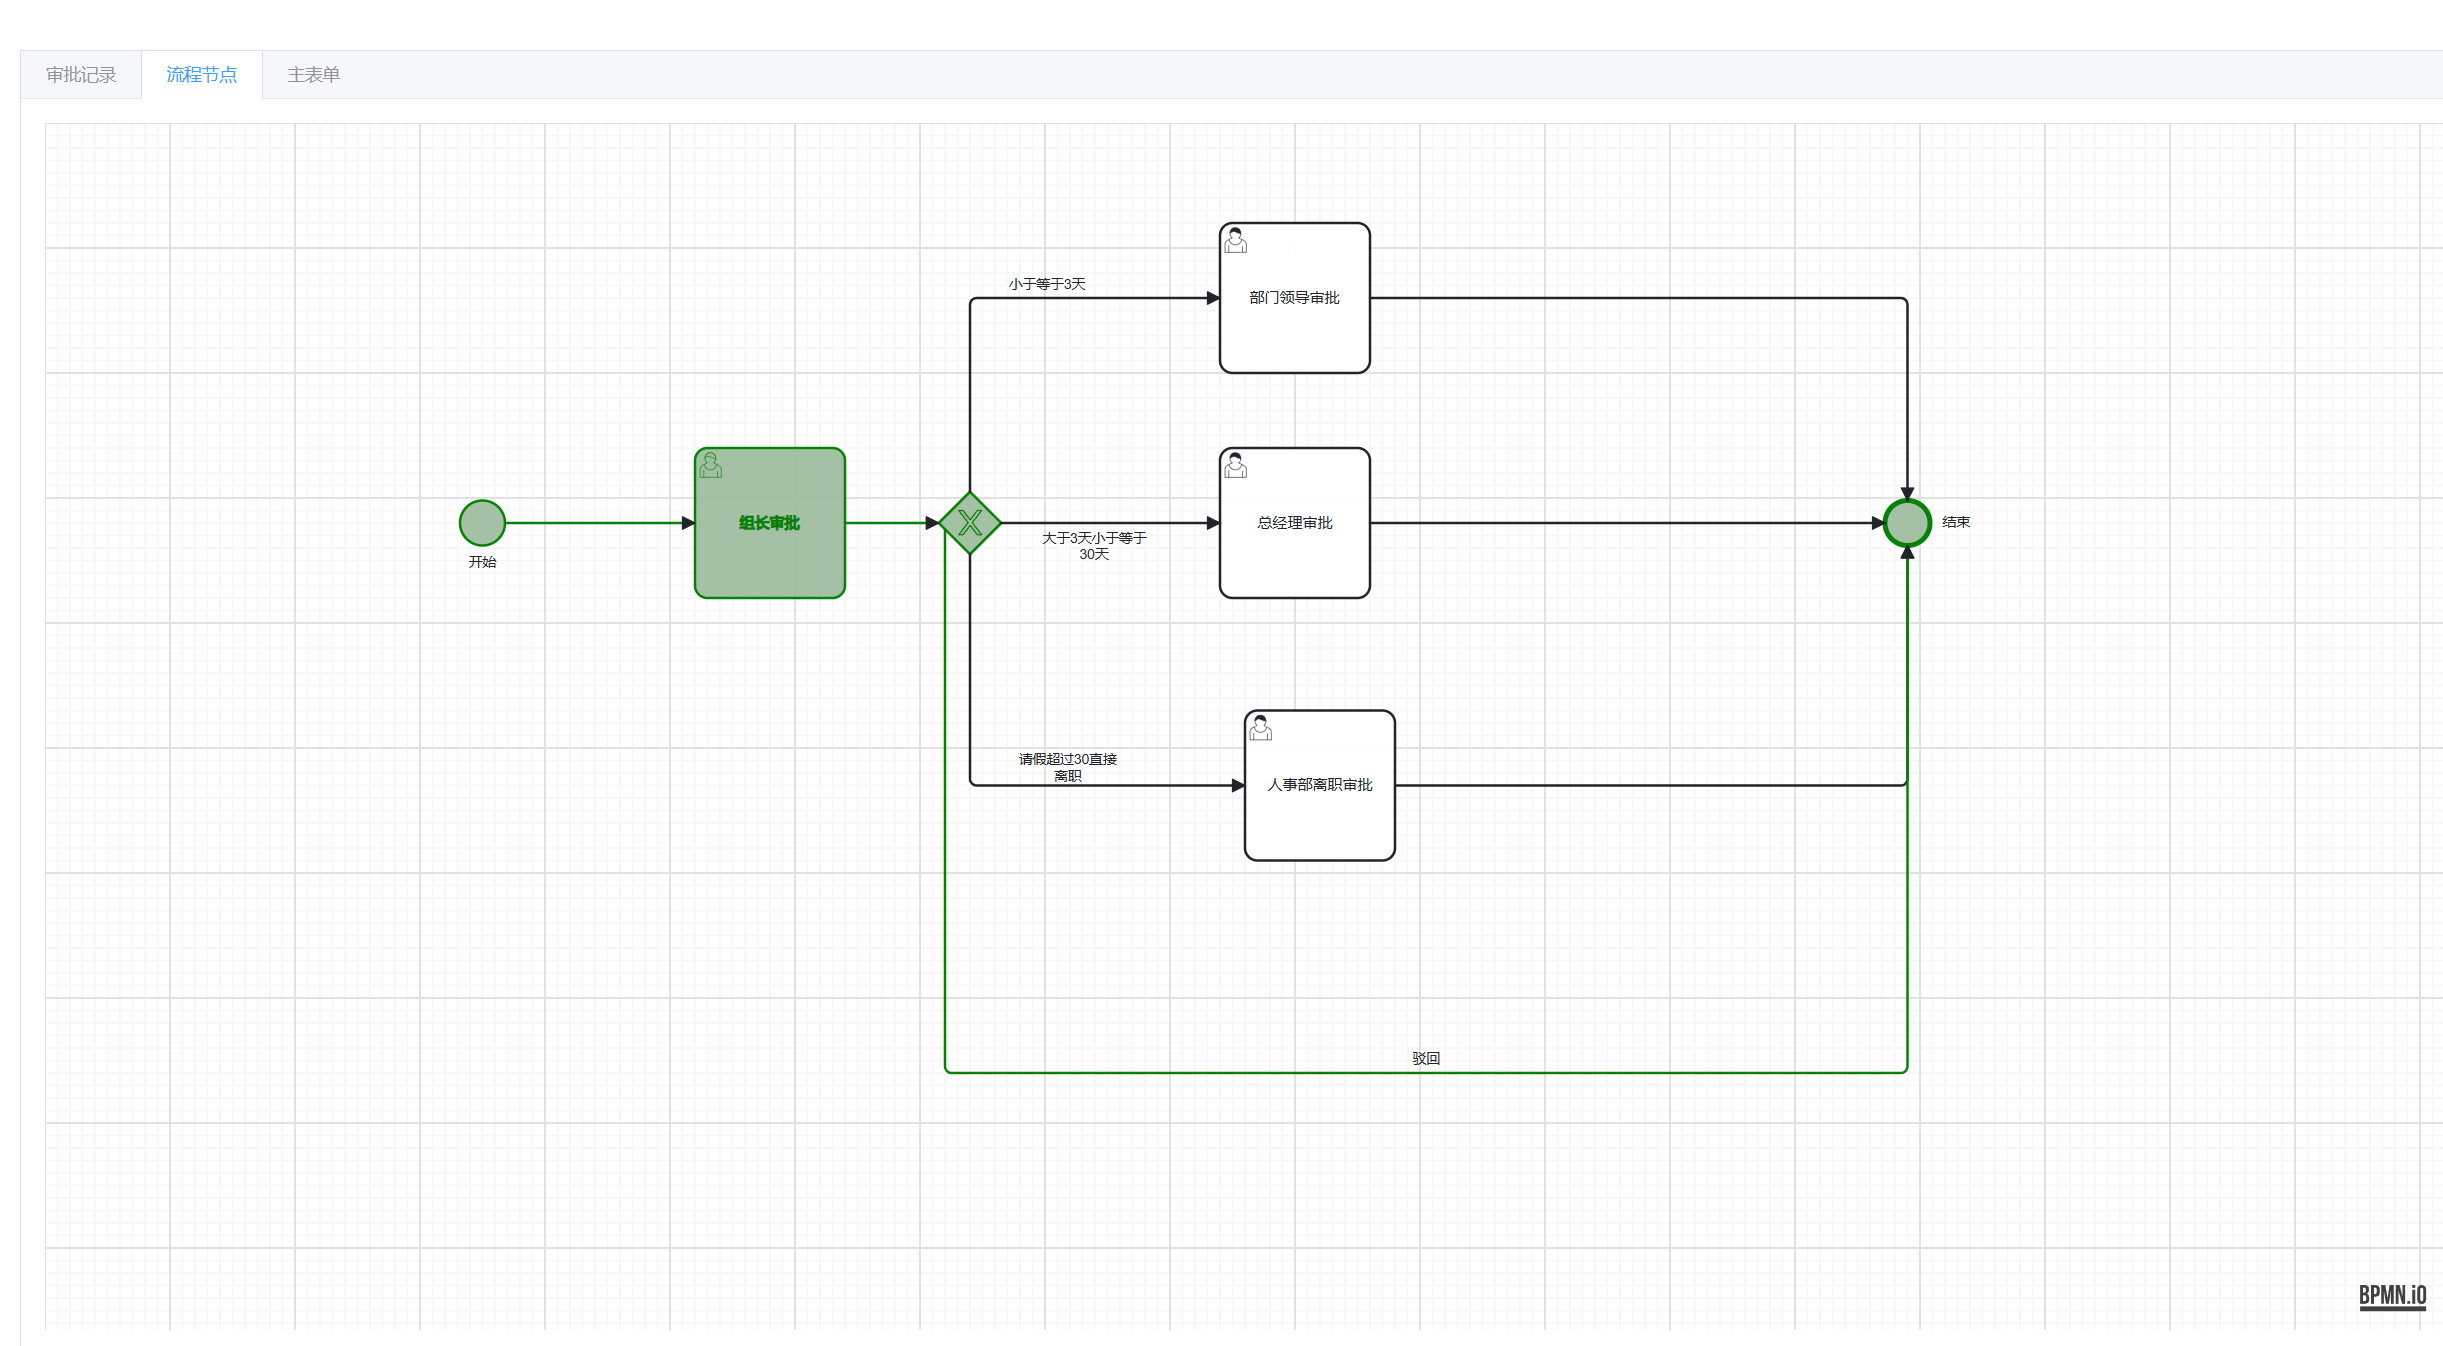
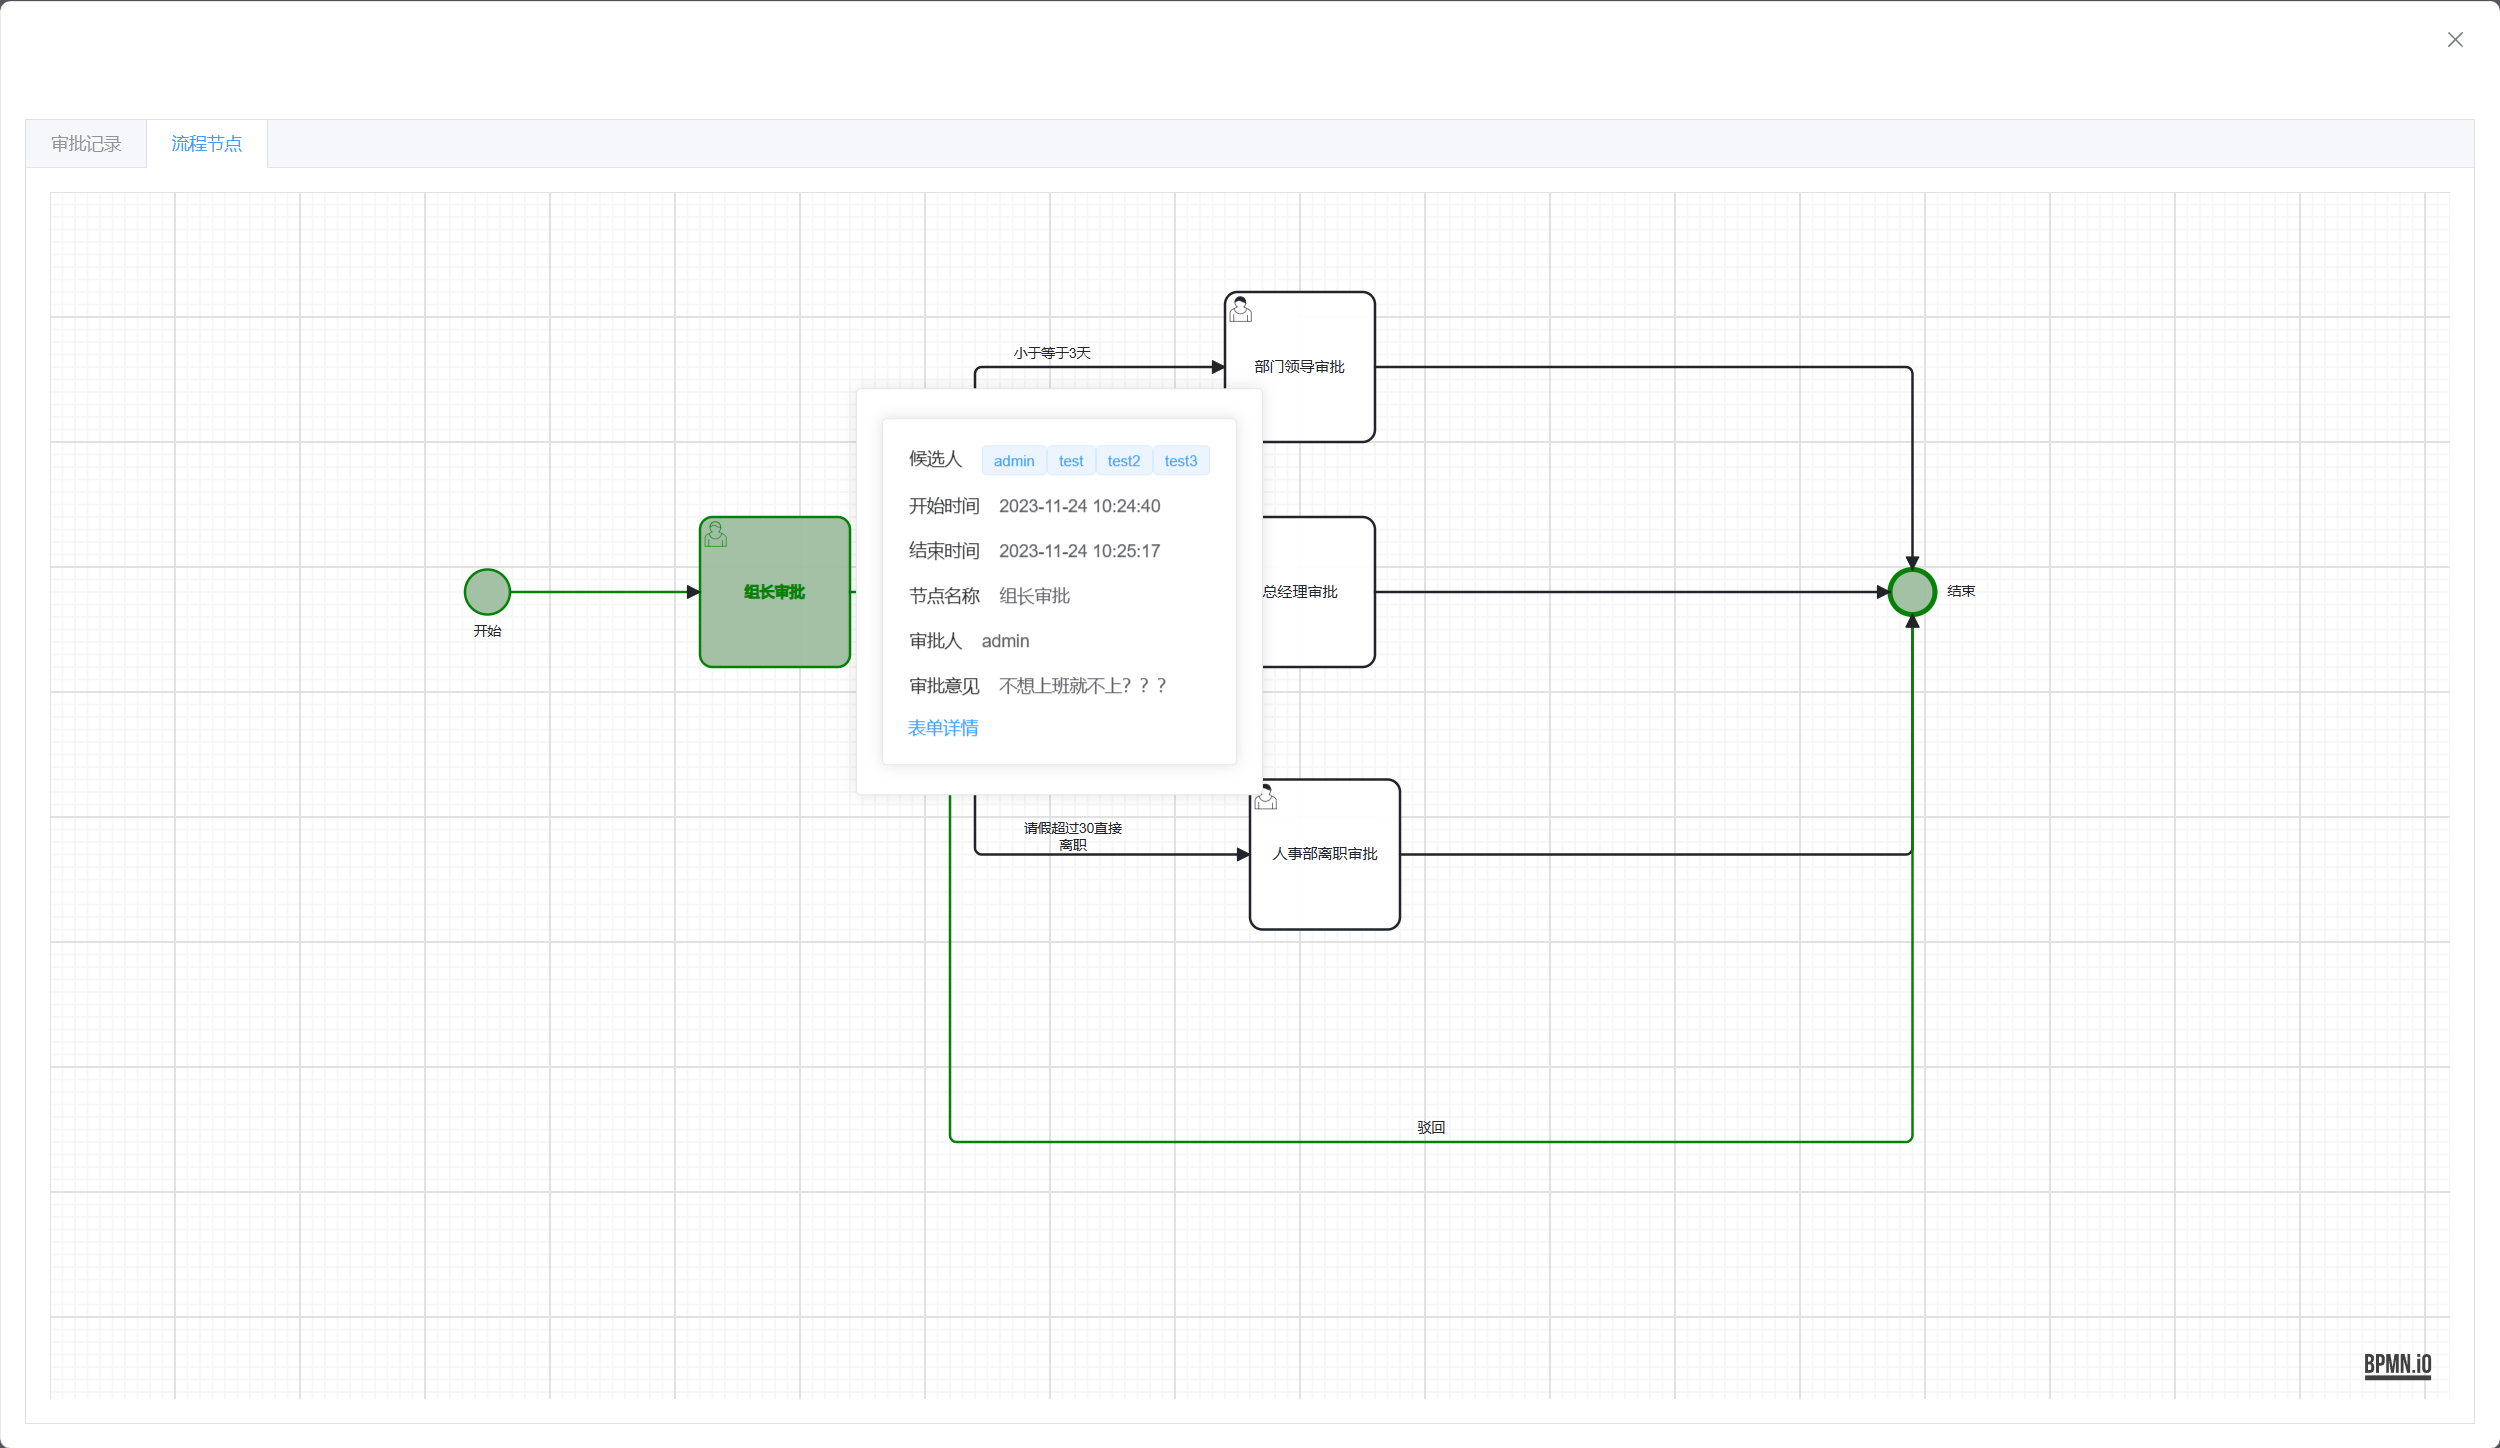
我的任务查看审批记录

diff --git a/activiti7-ui/src/views/activiti/my/todo/model/Approval.vue b/activiti7-ui/src/views/activiti/my/todo/model/Approval.vue
@@ -1,8 +1,8 @@
 <template>
   <div>
-    <el-dialog v-model="open" title="审批" width="1200px" append-to-body>
+    <el-dialog v-model="open" title="审批" width="1200px">
       <!-- 节点动态表单 -->
-      <VFormRender ref="preForm" :form-json="formJson" :form-data="formData" :preview-state="true"> </VFormRender>
+      <VFormRender ref="preForm" :form-json="formJson" :preview-state="true" />
 
       <!-- 审批意见 -->
       <el-form :model="form" label-width="80px">
@@ -18,7 +18,7 @@
   </div>
 </template>
 <script setup lang="ts">
-import { ref, reactive, toRef } from "vue";
+import { ref, reactive, toRef, nextTick } from "vue";
 import baseService from "@/service/baseService";
 import { ElMessage, ElMessageBox } from "element-plus";
 import VFormRender from "@/components/FormDesigner/form-render/index.vue";
@@ -38,8 +38,6 @@ let form = toRef(
 const preForm = ref();
 // 动态表单结构数据
 const formJson = ref<object>({});
-// 动态回显数据
-const formData = ref<object>({});
 
 // 当前节点id
 let activityId = "";
@@ -50,15 +48,20 @@ let activityId = "";
  * @param taskId 任务id
  * @param taskDefinitionKey 节点id
  */
-const init = (instanceId: string, taskId: string, taskDefinitionKey: string) => {
+const handleOpen = (instanceId: string, taskId: string, taskDefinitionKey: string) => {
   form.value.processInstanceId = instanceId;
   activityId = taskDefinitionKey;
   // 获取动态表单
   baseService.get(`/processTodo/getNodeForm/${taskId}`).then((res) => {
     if (res.code === 200 && res.data !== "") {
       formJson.value = JSON.parse(res.data);
+      open.value = true;
+      nextTick(() => {
+        preForm.value?.resetForm();
+        preForm.value?.setFormJson(JSON.parse(res.data));
+        form.value.comment = "";
+      });
     }
-    open.value = true;
   });
 };
 
@@ -95,7 +98,7 @@ const emit = defineEmits<{
 }>();
 
 defineExpose({
-  init
+  handleOpen
 });
 </script>
 

diff --git a/activiti7-ui/src/components/HistoryRecord/index.vue b/activiti7-ui/src/components/HistoryRecord/index.vue
@@ -19,8 +19,8 @@
                 </div>
               </template>
               <div class="hint-container">
-                <div class="history">已审批节点记录</div>
-                <div class="next">活动的未审批节点</div>
+                <div class="history">已审批</div>
+                <div class="next">待审批</div>
               </div>
               <el-timeline>
                 <el-timeline-item v-for="(item, index) in historyRecordList" :key="index" :color="item.status === 1 ? '#0bbd87' : '#e4e7ed'">
@@ -40,9 +40,9 @@
 <script setup lang="ts">
 import { ref } from "vue";
 import baseService from "@/service/baseService";
-import HistoryNodeInfo from "./HistoryNodeInfo.vue";
-import MainForm from "./MainForm.vue";
-import HighlightNode from "./HighlightNode.vue";
+import HistoryNodeInfo from "./components/HistoryNodeInfo.vue";
+import MainForm from "./components/MainForm.vue";
+import HighlightNode from "./components/HighlightNode.vue";
 
 // 是否打开弹出框
 const drawer = ref(false);
@@ -64,7 +64,7 @@ const tabsValue = ref("1");
  * 初始化
  * @param id 流程实例id
  */
-const init = (id: string) => {
+const open = (id: string) => {
   drawer.value = true;
   instanceId.value = id;
   tabsValue.value = "1";
@@ -120,7 +120,7 @@ const tabChange = (name: string) => {
 };
 
 defineExpose({
-  init
+  open
 });
 </script>
 
@@ -135,6 +135,7 @@ defineExpose({
 .history-container :deep() .el-card__body {
   display: flex;
   flex-direction: column;
+  align-items: baseline;
   height: calc(100% - 56px);
 }
 .main-form {
@@ -144,6 +145,7 @@ defineExpose({
   display: flex;
   justify-content: center;
   margin: 30px 10px;
+  padding: 0 20px;
 }
 
 .hint-container > div {

diff --git a/activiti7-ui/src/views/activiti/my/todo/index.vue b/activiti7-ui/src/views/activiti/my/todo/index.vue
@@ -23,6 +23,7 @@
       <el-table-column>
         <template #default="scope">
           <el-button link type="primary" icon="Pointer" @click="handleApproval(scope.row)">审批</el-button>
+          <el-button link type="primary" icon="Pointer" @click="handleHistoryRecord(scope.row.processInstanceId)">审批记录</el-button>
         </template>
       </el-table-column>
     </el-table>
@@ -31,12 +32,16 @@
 
     <!-- 审批 -->
     <Approval ref="approvalRef" @ok="getList" />
+
+    <!-- 审批记录 -->
+    <HistoryRecord ref="historyRecordRef" />
   </div>
 </template>
 <script setup lang="ts">
 import { ref, reactive } from "vue";
 import baseService from "@/service/baseService";
 import Approval from "./model/Approval.vue";
+import HistoryRecord from "@/components/HistoryRecord/index.vue";
 
 // 查询参数
 const queryForm = reactive({
@@ -54,6 +59,8 @@ const list = ref<any[]>([]);
 
 // 发起流程弹出框
 const approvalRef = ref();
+// 审批记录弹出框
+const historyRecordRef = ref();
 
 /**
  * 查询列表
@@ -89,7 +96,15 @@ function handleQuery() {
  * @param row 当前行数据
  */
 function handleApproval(row: any) {
-  approvalRef.value.init(row.processInstanceId, row.taskId, row.taskDefinitionKey);
+  approvalRef.value.handleOpen(row.processInstanceId, row.taskId, row.taskDefinitionKey);
+}
+
+/**
+ * 审批记录
+ * @param instanceId 流程实例id
+ */
+function handleHistoryRecord(instanceId: string) {
+  historyRecordRef.value.open(instanceId);
 }
 
 getList();

diff --git a/activiti7-ui/src/components/HistoryRecord/components/HighlightNode.vue b/activiti7-ui/src/components/HistoryRecord/components/HighlightNode.vue
@@ -1,7 +1,7 @@
 <template>
   <div v-if="Object.keys(highlightNode).length !== 0" class="root">
     <DesignerDetails :xml="highlightNode.xml" id="highlightNode" v-if="highlightNode.xml" />
-    <el-card class="box-card" id="nodeInfo">
+    <el-card class="box-card" id="nodeInfo" v-show="open">
       <div v-for="(item, index) in nodeInfoItem" :key="index">
         <HistoryNodeInfo :nodeItem="item" />
       </div>
@@ -15,7 +15,10 @@ import EventBus from "@/components/BpmnJs/utils/EventBus";
 import Popper from "popper.js";
 import HistoryNodeInfo from "./HistoryNodeInfo.vue";
 
+// 弹框实例
 let popper: Popper;
+// 是否显示
+let open = ref<boolean>(false);
 // 选择的历史审批记录
 const nodeInfoItem = ref<any[]>([]);
 
@@ -57,6 +60,7 @@ const showNodeInfo = (elementId: string) => {
 
   const element = document.querySelector(`[data-element-id='${elementId}']`) as HTMLElement;
   const nodeInfo = document.querySelector(`#nodeInfo`) as HTMLElement;
+  open.value = true;
   popper = new Popper(element, nodeInfo, {
     placement: "right"
   });
@@ -72,6 +76,7 @@ EventBus.on("modeler-init", (modeler) => {
     // 移出时摧毁上一个
     if (elementId && event.element.id != elementId) {
       popper?.destroy();
+      open.value = false;
     }
     // 移入的如果是用户节点，就弹出框
     if (event.element.type === "bpmn:UserTask") {

diff --git a/activiti7-ui/src/views/activiti/my/start/index.vue b/activiti7-ui/src/views/activiti/my/start/index.vue
@@ -36,10 +36,10 @@
           <span v-if="scope.row.status === 2">已完成</span>
         </template>
       </el-table-column>
-      <el-table-column>
+      <el-table-column width="200">
         <template #default="scope">
-          <el-button link type="primary" icon="Pointer" @click="handleHistoryRecord(scope.row.id)">审批记录</el-button>
           <el-button link type="primary" icon="Delete" @click="handleDelete(scope.row.id)">删除</el-button>
+          <el-button link type="primary" icon="Pointer" @click="handleHistoryRecord(scope.row.id)">审批记录</el-button>
         </template>
       </el-table-column>
     </el-table>
@@ -56,7 +56,7 @@
 import { ref, reactive } from "vue";
 import baseService from "@/service/baseService";
 import StartProcess from "./model/StartProcess.vue";
-import HistoryRecord from "./model/HistoryRecord.vue";
+import HistoryRecord from "@/components/HistoryRecord/index.vue";
 import { ElMessage, ElMessageBox } from "element-plus";
 
 // 查询参数
@@ -121,7 +121,7 @@ function handleAdd() {
  * @param instanceId 流程实例id
  */
 function handleHistoryRecord(instanceId: string) {
-  historyRecordRef.value.init(instanceId);
+  historyRecordRef.value.open(instanceId);
 }
 
 /**

diff --git a/activiti7-ui/src/components/HistoryRecord/components/HistoryNodeInfo.vue b/activiti7-ui/src/components/HistoryRecord/components/HistoryNodeInfo.vue
@@ -7,8 +7,11 @@
       <el-descriptions-item label="候选组" v-if="nodeItem.identity.groupNames">
         <el-tag v-for="(groupName, index) in nodeItem.identity.groupNames" :key="index">{{ groupName }}</el-tag>
       </el-descriptions-item>
-      <el-descriptions-item v-if="nodeItem.status === 1" label="时间">
-        <span>{{ nodeItem.startTime }} 到 {{ nodeItem.endTime }}</span>
+      <el-descriptions-item v-if="nodeItem.status === 1" label="开始时间">
+        <span>{{ nodeItem.startTime }}</span>
+      </el-descriptions-item>
+      <el-descriptions-item v-if="nodeItem.status === 1" label="结束时间">
+        <span>{{ nodeItem.endTime }}</span>
       </el-descriptions-item>
       <el-descriptions-item label="节点名称">{{ nodeItem.nodeName }}</el-descriptions-item>
       <el-descriptions-item v-if="nodeItem.userName" label="审批人">{{ nodeItem.userName }}</el-descriptions-item>

diff --git a/activiti7-ui/src/views/activiti/my/start/model/SelectProcess.vue b/activiti7-ui/src/views/activiti/my/start/model/SelectProcess.vue
@@ -1,6 +1,6 @@
 <template>
   <div>
-    <el-dialog v-model="open" title="发起流程" width="1200px" append-to-body>
+    <el-dialog v-model="open" title="选择流程" width="1200px" append-to-body>
       <el-form :inline="true" :model="queryForm" class="demo-form-inline">
         <el-form-item label="流程名称">
           <el-input v-model="queryForm.definitionName" placeholder="流程名称" clearable />

diff --git a/activiti7-java/src/main/java/com/activiti/modules/service/impl/ProcessTodoServiceImpl.java b/activiti7-java/src/main/java/com/activiti/modules/service/impl/ProcessTodoServiceImpl.java
@@ -13,6 +13,7 @@ import com.activiti.utils.page.PageDomain;
 import com.activiti.utils.page.PageUtils;
 import com.activiti.utils.page.TableDataInfo;
 import com.baomidou.mybatisplus.core.conditions.query.LambdaQueryWrapper;
+import de.odysseus.el.tree.TreeBuilderException;
 import org.activiti.bpmn.model.BpmnModel;
 import org.activiti.bpmn.model.FlowElement;
 import org.activiti.bpmn.model.UserTask;
@@ -168,6 +169,8 @@ public class ProcessTodoServiceImpl implements ProcessTodoService {
             taskService.complete(task.getId(), dto.getVariables());
         } catch (ActivitiException ex) {
             throw new AException("Activiti流程异常:" + ex.getMessage());
+        } catch (TreeBuilderException ex) {
+            throw new AException("流程条件错误" + ex.getMessage());
         } catch (Exception ex) {
             throw new AException("流程提交未知异常!");
         }

diff --git a/README.md b/README.md
@@ -59,4 +59,3 @@
 
 ![](images/flow.png)
 
-![](images/mainForm.png)
